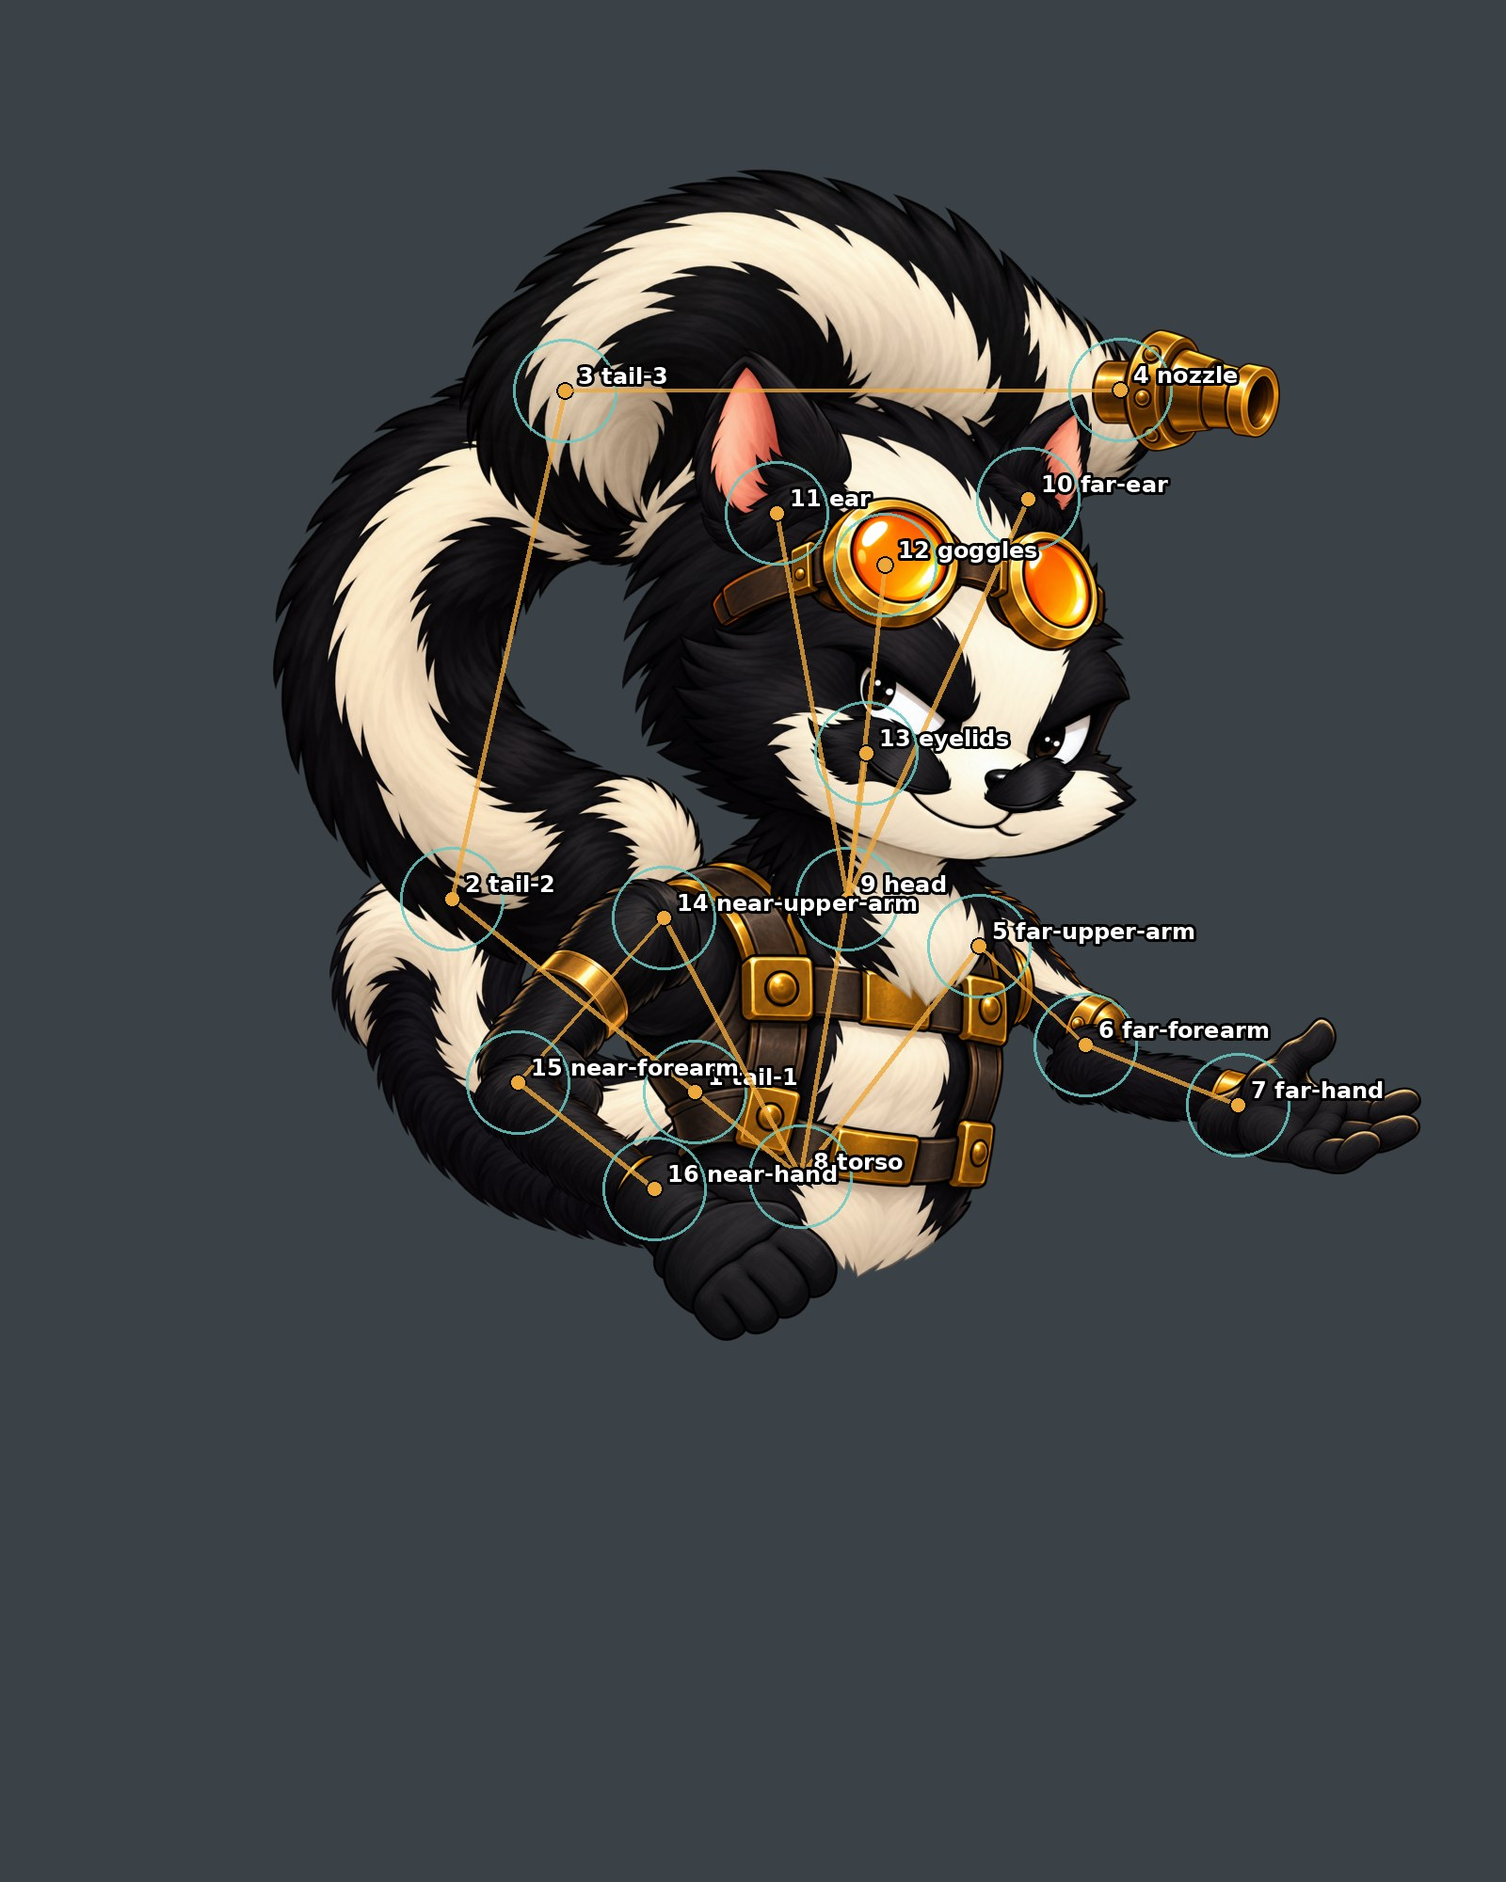
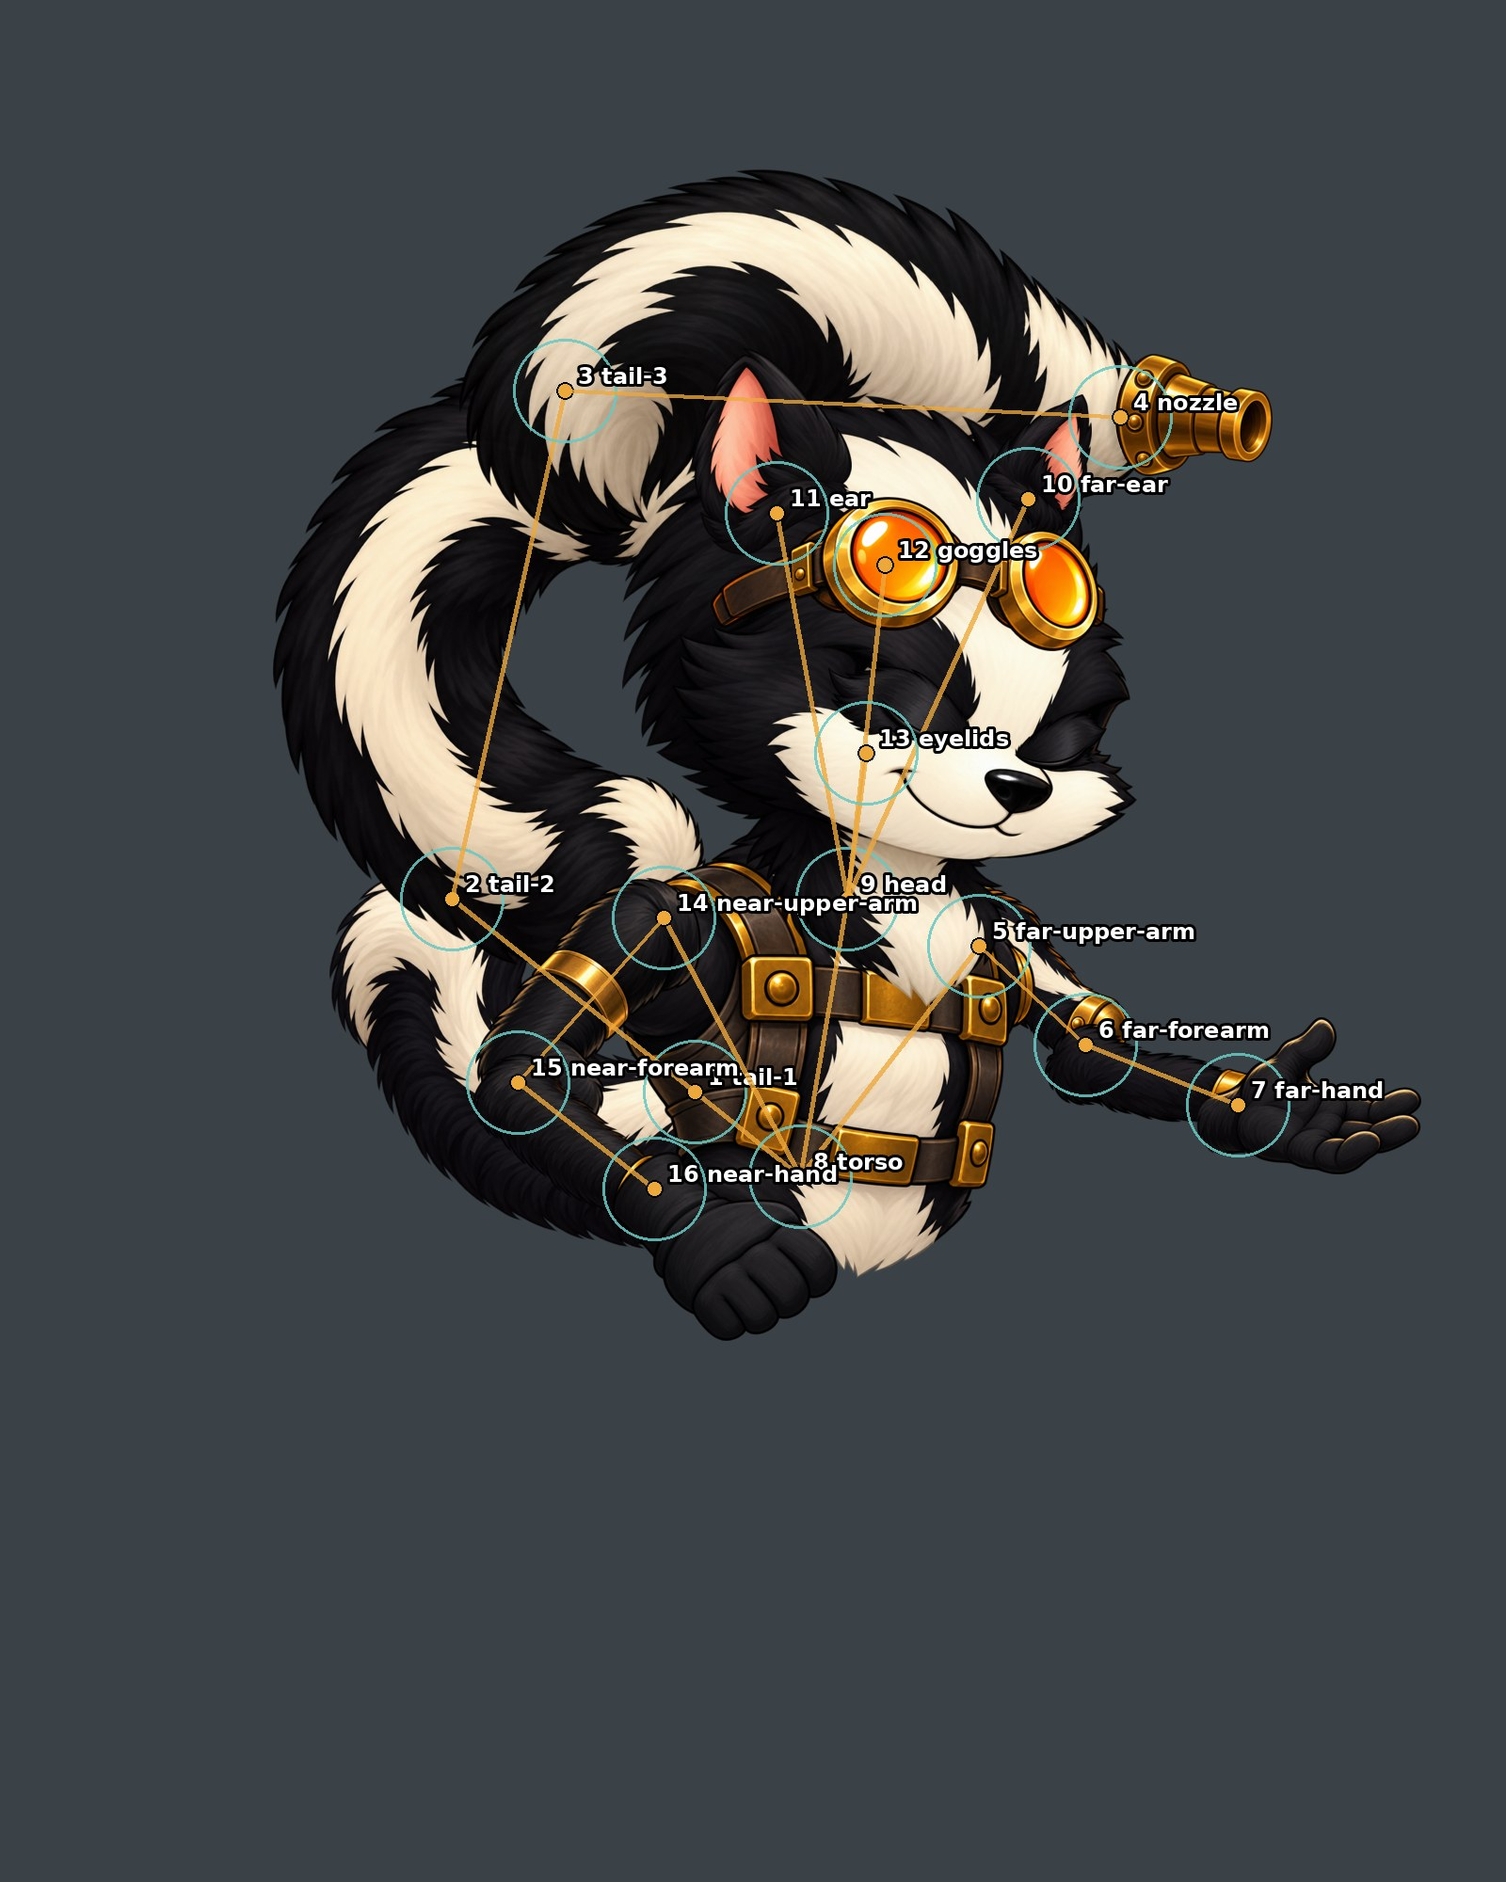
Cyber Skunk: seat the tail nozzle on the tail tip
Dylan: the spout looked like it was floating, pasted onto the tail.
As delivered, the nozzle's axis sat 26 px above the tail's centre line, and
its back stub was painted over the fur.

- fit_nozzle in the fit tool writes art/rig/fitted/nozzle.png (prep prefers
  it, as with the eyelids). It drops the stub behind the collar's rear rim
  (an ellipse arc fitted to the outline), moves the nozzle 8 px left and
  26 px down onto the centre line so the collar closes round the tip like a
  cuff, and shades the fur where it goes in.
- Contract: tail_tip (1190, 443) is the rear rim's centre, and nozzleMouth
  (1331, 453) is the opening's centre. Spray IK re-solves (nozzle 18.8 deg).
- The fit report, guide and extents now read the fitted pieces.
- Shots: nozzle-seat-v41.jpg (poses, before/after) and nozzle-seat-game.jpg.

Claude-Session: https://claude.ai/code/session_01T1NZzBygTfh8wknzdnFfXr

Changed region(s): [[0.6875, 0.155, 0.875, 0.279], [0.5312, 0.341, 0.7188, 0.434], [0.4062, 0.186, 0.625, 0.217]]

diff --git a/slots/tools/art/cyber-skunk-fit-v4.py b/slots/tools/art/cyber-skunk-fit-v4.py
@@ -15,7 +15,7 @@ import json
 from pathlib import Path
 
 import numpy as np
-from PIL import Image, ImageDraw, ImageFont
+from PIL import Image, ImageDraw, ImageFilter, ImageFont
 
 GAME = Path(__file__).resolve().parents[2] / "games" / "cyber-skunk"
 SRC = GAME / "art" / "source" / "mascot-compact-v4"
@@ -26,7 +26,7 @@ J = {
     "base": (850, 1250), "neck": (900, 955), "ear": (825, 545), "far_ear": (1092, 530), "goggles": (940, 600), "eyes": (920, 800),
     "near_shoulder": (705, 975), "near_elbow": (550, 1150), "near_wrist": (695, 1263),
     "far_shoulder": (1040, 1005), "far_elbow": (1153, 1110), "far_wrist": (1315, 1174),
-    "tail_root": (738, 1160), "tail_1": (480, 955), "tail_2": (600, 415), "tail_tip": (1190, 414),
+    "tail_root": (738, 1160), "tail_1": (480, 955), "tail_2": (600, 415), "tail_tip": (1190, 443),
 }
 JOINT_OF = {
     "tail-1": "tail_root", "tail-2": "tail_1", "tail-3": "tail_2", "nozzle": "tail_tip",
@@ -40,6 +40,64 @@ OVERLAP = 55
 # each lid shape is moved onto its eye; as delivered both sat on the cheek.
 # (lid centre in the source, where it goes: the eye opening's centre)
 LID_FIT = [((933, 802), (955, 749)), ((1095, 835), (1128, 789))]
+# Nozzle (Dylan, 2026-11-01: "looks like it's floating there, copy pasted"): as
+# delivered its axis sat 26 px above the tail's centre line and its back stub was
+# painted over the fur. The fitted nozzle drops the stub (everything behind the
+# collar's rear rim), moves onto the centre line so the collar closes round the
+# tail's tip like a cuff, and shades the fur where it goes in. The tail_tip
+# joint is the rim's centre; the jet leaves from the mouth's opening.
+NOZZLE_FIT = (-8, 26)
+NOZZLE_MOUTH = (1339, 427)  # the opening's centre, as delivered
+
+
+def fit_nozzle():
+    """The nozzle seated on the tail tip: stub off, on the centre line, fur shaded."""
+    src = np.array(Image.open(SRC / "registered" / "nozzle.png").convert("RGBA")).astype(np.float32)
+    tail = np.array(Image.open(SRC / "registered" / "tail-3.png").convert("RGBA"))[:, :, 3].astype(np.float32) / 255
+    h, w = src.shape[:2]
+    a = src[:, :, 3]
+    # The collar's rear rim: its left edge on the rows clear of the stub, an ellipse arc through them.
+    rows = [y for y in range(h) if (a[y] >= 128).any()]
+    left = {y: int(np.nonzero(a[y] >= 128)[0][0]) for y in rows}
+    stub = [y for y in rows if left[y] < 1190]
+    mid = (min(stub) + max(stub)) / 2
+    pts = np.array([(y, left[y]) for y in rows if left[y] >= 1190 and abs(y - mid) < 70], float)
+    best = None
+    for cy in np.arange(mid - 10, mid + 10, 0.5):
+        for ry in np.arange(60, 110, 1.0):
+            u = 1 - ((pts[:, 0] - cy) / ry) ** 2
+            if (u <= 0).any():
+                continue
+            m = np.stack([np.ones(len(u)), -np.sqrt(u)], 1)
+            (cx, rx), *_ = np.linalg.lstsq(m, pts[:, 1], rcond=None)
+            err = float(((m @ [cx, rx] - pts[:, 1]) ** 2).mean())
+            if best is None or err < best[0]:
+                best = (err, cy, ry, cx, rx)
+    _, cy, ry, cx, rx = best
+    rim = lambda y: cx - rx * np.sqrt(np.clip(1 - ((y - cy) / ry) ** 2, 0, 1))
+    yy, xx = np.mgrid[0:h, 0:w].astype(np.float32)
+    # Stub off: everything behind the rim on the stub's rows (1 px feather).
+    band = (yy >= min(stub) - 2) & (yy <= max(stub) + 2)
+    src[:, :, 3] = np.where(band, a * np.clip(xx - rim(yy) + 1, 0, 1), a)
+    # Onto the centre line.
+    dx, dy = NOZZLE_FIT
+    out = np.zeros_like(src)
+    out[max(0, dy):h + min(0, dy), max(0, dx):w + min(0, dx)] = src[max(0, -dy):h - max(0, dy), max(0, -dx):w - max(0, dx)]
+    # The fur darkens where it goes into the collar: a soft band behind the rim,
+    # on the fur only, over the middle of the rim (the ends stay clear so a turn
+    # of the nozzle never shows it off the tail).
+    rim_at = rim(yy - dy) + dx
+    near = np.clip(1 - (rim_at - xx) / 12, 0, 1) * (xx < rim_at) * np.sqrt(np.clip(1 - np.abs(yy - (cy + dy)) / 52, 0, 1))
+    solid = np.array(Image.fromarray((tail * 255).astype(np.uint8)).filter(ImageFilter.GaussianBlur(2)), np.float32) / 255 > 0.98
+    shade = np.array(Image.fromarray((near * solid * 255).astype(np.uint8)).filter(ImageFilter.GaussianBlur(2)), np.float32) / 255 * 0.32
+    na = out[:, :, 3] / 255
+    shade *= 1 - na
+    total = shade + na * (1 - shade)
+    rgb = np.where(total[:, :, None] > 0, out[:, :, :3] * (na * (1 - shade) / np.maximum(total, 1e-6))[:, :, None], 0)
+    out = np.dstack([rgb, total * 255])
+    (RIG / "fitted").mkdir(exist_ok=True)
+    Image.fromarray(np.clip(out + 0.5, 0, 255).astype(np.uint8)).save(RIG / "fitted" / "nozzle.png")
+    return (round(rim(cy) + dx + 5), round(cy + dy))
 
 
 def fit_eyelids():
@@ -61,9 +119,14 @@ def fit_eyelids():
 
 
 def main():
+    fit_eyelids()
+    seat = fit_nozzle()
+    assert seat == J["tail_tip"], f"the nozzle's rim centre is {seat}, J says {J['tail_tip']}"
     proposal = json.loads((SRC / "assembly-proposal.json").read_text())
     parts = sorted(proposal["parts"], key=lambda q: q["order"])
-    alpha = {q["name"]: np.array(Image.open(SRC / q["file"]).convert("RGBA"))[:, :, 3] >= 128 for q in parts}
+    # A fitted piece (art/rig/fitted/) stands in for its source everywhere below.
+    source = lambda q: RIG / "fitted" / f"{q['name']}.png" if (RIG / "fitted" / f"{q['name']}.png").exists() else SRC / q["file"]
+    alpha = {q["name"]: np.array(Image.open(source(q)).convert("RGBA"))[:, :, 3] >= 128 for q in parts}
     yy, xx = np.mgrid[-OVERLAP:OVERLAP + 1:2, -OVERLAP:OVERLAP + 1:2]
     disk = (xx * xx + yy * yy) <= OVERLAP * OVERLAP
     cover = lambda name, x, y: float(alpha[name][(y + yy)[disk], (x + xx)[disk]].mean())
@@ -75,7 +138,7 @@ def main():
         "tail": ["tail_root", "tail_1", "tail_2", "tail_tip"],
         # The spray: the nozzle joint lifts to here (every tail segment within +-35 degrees),
         # the nozzle stays level and the jet leaves from its mouth.
-        "sprayTarget": [1250, 260], "nozzleMouth": [1352, 414], "tuck": [0, 0, 0],
+        "sprayTarget": [1250, 260], "nozzleMouth": [NOZZLE_MOUTH[0] + NOZZLE_FIT[0], NOZZLE_MOUTH[1] + NOZZLE_FIT[1]], "tuck": [0, 0, 0],
         # Wins pump the near arm: the far one would rise behind the head.
         "cheer": {"near-upper-arm": 100, "near-forearm": -75, "near-hand": -20, "far-upper-arm": -25, "far-forearm": -15},
         "notes": "Fitted to ChatGPT's 16 painted pieces as delivered: 3 tail segments, a separate far ear, no jaw yet (the grin is painted on the head).",
@@ -84,7 +147,7 @@ def main():
     for q in parts:
         name, j = q["name"], JOINT_OF[q["name"]]
         x, y = J[j]
-        b = q["alphaBounds"]
+        b = q["alphaBounds"] if source(q) == SRC / q["file"] else list(Image.open(source(q)).getchannel("A").point(lambda v: 255 if v >= 8 else 0).getbbox())
         contract["parts"][name] = {"pivot": [x, y], "joint": j, "parent": q["parent"], "order": q["order"], "extent": b, "file": f"{name}.png"}
         own, par = cover(name, x, y), (cover(q["parent"], x, y) if q["parent"] else None)
         rows.append((name, j, (x, y), own, par))
@@ -98,7 +161,7 @@ def main():
     # The guide, on the assembled pieces.
     im = Image.new("RGBA", (1600, 2000), (58, 66, 72, 255))
     for q in parts:
-        im.alpha_composite(Image.open(SRC / q["file"]).convert("RGBA"))
+        im.alpha_composite(Image.open(source(q)).convert("RGBA"))
     im = im.convert("RGB"); d = ImageDraw.Draw(im, "RGBA")
     try:
         font = ImageFont.truetype("DejaVuSans-Bold.ttf", 24)
@@ -113,7 +176,6 @@ def main():
         d.ellipse([x - 9, y - 9, x + 9, y + 9], fill=(237, 168, 60, 255), outline=(0, 0, 0, 255), width=2)
         d.text((x + 14, y - 30), f"{q['order']} {name}", fill=(255, 255, 255), font=font, stroke_width=3, stroke_fill=(0, 0, 0))
     im.save(RIG / "guide-v3.jpg", quality=88)
-    fit_eyelids()
     print("\n".join(lines[6:]))
 
 

diff --git a/slots/collab/HANDOFF.md b/slots/collab/HANDOFF.md
@@ -5,6 +5,44 @@ Newest on top. Format is in `AGENTS.md`.
 ---
 
 
+### 2026-11-01 17:40 · Claude → ChatGPT · The tail nozzle is seated on the tail tip
+
+**Dylan:** "her tail's spout looks like it's just floating there, copy pasted into it. Can we make it look like it's actually part of her tail."
+
+**Why it looked pasted:**
+- The nozzle's axis sat 26 px above the tail's centre line. So the fur bulged out below the collar, and the collar stood proud above it.
+- The nozzle's back stub was drawn on top of the fur, as if stuck on.
+- Its joint was at the top of the tip, so the recoil tipped it off the fur.
+
+**Did:**
+- **Fitted nozzle:** the fit tool (`tools/art/cyber-skunk-fit-v4.py`, `fit_nozzle`) writes `art/rig/fitted/nozzle.png`. Prep uses it instead of your source, the same way it uses the fitted eyelids. The fit:
+  - removes the stub behind the collar's rear rim (the rim's arc is fitted to your outline, so the cut follows it);
+  - moves the nozzle 8 px left and 26 px down, onto the centre line, so the collar closes round the tip like a cuff;
+  - adds a soft shadow on the fur where it goes into the collar.
+- **Contract:** in `pivots-v4.json`:
+  - `tail_tip` moves to (1190, 443), the centre of the rear rim;
+  - `nozzleMouth` moves to (1331, 453), the centre of the opening (it was 12 px high before);
+  - the nozzle's extent is updated.
+  
+  Spray IK re-solves: the nozzle levels at 18.8°.
+- **Checked:**
+  - Rest, idle, spray, bonus and recoil poses (`shots/nozzle-seat-v41.jpg`, before and after).
+  - In the game at 1920×1080 and 390×844, including the jet leaving the mouth (`shots/nozzle-seat-game.jpg`).
+- **Other assets:** the prep run would also have re-encoded your later cabinet, symbols and logo from older sources. I restored yours; only the mascot files changed.
+- **Tests:** 27 game, 25 browser. In the core suite, 126 pass; `dispatch.test.mjs` "concurrent writers" failed once under load, then passed 3 of 3 alone (timing, not this change). The playable link is republished.
+
+**Files:** `tools/art/cyber-skunk-fit-v4.py`, `art/rig/{pivots-v4.json,fit-v4.1.md,guide-v3.jpg,fitted/nozzle.png}`, `runtime/assets/mascot/{nozzle.webp,layers.json,pivots.json,pivots-v4.json}`, `ART_SPEC.md`, `shots/nozzle-seat-*`.
+
+**Next for ChatGPT:**
+- Optional: repaint `nozzle.png` already on its mark: collar centred on y ≈ 441, rear rim at x ≈ 1185, no stub. You could add a few fur tufts lapping over the rim's back edge; painted, they would sell the join better than I can by code. Say so and I retire the fitted copy.
+- When you run prep yourself, keep your cabinet, symbols and logo: the prep tool still re-encodes them from the older sources.
+
+**Questions for Dylan:** CS-08 (Signal Boost) is still waiting on his choice; see the note below.
+
+**Blocked on:** nothing.
+
+---
+
 ### 2026-11-01 16:05 · Claude → ChatGPT · Mystery Buy is 90% Overpressure / 10% Blackout at 500x; game start fixed
 
 **Dylan chose:** Blackout 1 in 10 at a 500x price, so Overpressure keeps today's strength.

diff --git a/slots/collab/BOARD.md b/slots/collab/BOARD.md
@@ -11,7 +11,7 @@ Coordination: `games/cyber-skunk/STYLE.md`; deadline target 2026-10-31 08:25 UTC
 | CS-02 | Exact art/pivot contract and articulated rig guide | Claude | done | Rig v4 (compact, waist up): `art/rig/pivots-v4.json`, `guide-v2.jpg`, 17 pieces; ChatGPT painting the pieces |
 | CS-03 | Engine, paytable/calibration, all-mode distribution and max odds | Claude | done | cs-2 (Dylan's odds, all met): base max 1 in 1,000,000; bought Vent Break 1 in 200,000 (now with a Reservoir to 5) and Overpressure 1 in 50,000; Blackout 1 in 200 and ≥1,000×; all modes exactly 96% |
 | CS-04 | Production symbol/cabinet/background/logo and registered mascot layers | ChatGPT | done | Required art and the optional controller texture/icon are integrated and browser-checked through `a0f501f`; the optional splash pair remains absent by design. Preserve the fitted v4.1 eyelids and do not drop old-v4 mouth candidates into production. |
-| CS-05 | Rig, animations, original audio and responsive runtime integration | Claude | done | Rig v4.1, fitted blink, all clips/audio, full centred symbol-card flip, pipe mount, bonus halls, intro art, controller texture and icon are live and browser-checked through `a0f501f`. |
+| CS-05 | Rig, animations, original audio and responsive runtime integration | Claude | done | Rig v4.1, fitted blink, tail nozzle seated on the tail tip (2026-11-01, `art/rig/fitted/nozzle.png`), all clips/audio, full centred symbol-card flip, pipe mount, bonus halls, intro art, controller texture and icon are live and browser-checked through `a0f501f`. |
 | CS-06 | UI skin, buy screens, controller and phone visual QA | ChatGPT + Claude | doing | The complete `a0f501f` build passed responsive QA. Claude measured one pre-existing exception: the enabled portrait BET picker was 34px tall. ChatGPT restored the final portrait readout/BET row to STYLE's 44px minimum and bumped the controller/CSS version; Claude must measure 360/390/430, check safe areas/no scroll and republish. |
 | CS-07 | Final replay/math/browser tests, playable link, notify Dylan | ChatGPT + Claude | doing | Preview link (private to Dylan, updates in place): https://claude.ai/artifact/Qcrirm5ru2hScWfRqADBQc. The `a0f501f` artifact passed 11 browser, 23 game and 127 core tests; all 141,260 catalogs replayed, every paid mode is 96%, and served files matched. The source-only 44px BET target correction now needs Claude's browser run and republish before the latest source revision is called live. |
 

diff --git a/slots/games/cyber-skunk/ART_SPEC.md b/slots/games/cyber-skunk/ART_SPEC.md
@@ -24,6 +24,10 @@
 >   - the near arm: `near-upper-arm`, `near-forearm`, `near-hand`.
 > - **Joints:** each sits where its piece overlaps its parent. `tools/art/cyber-skunk-fit-v4.py` writes the contract `art/rig/pivots-v4.json`, the overlap report `art/rig/fit-v4.1.md` and the guide `art/rig/guide-v3.jpg`.
 > - **Game:** `cyber-skunk-prep.py --mascot art/source/mascot-compact-v4/registered` puts them in the game. Wins pump the near arm, because the far arm would rise behind the head.
+> - **Fitted pieces:** the fit tool writes corrected copies of two pieces to `art/rig/fitted/`, and prep uses those instead of the sources:
+>   - **`eyelids`:** each lid moved onto its eye.
+>   - **`nozzle`:** the back stub is removed and the nozzle moves 8 px left and 26 px down. Its collar now sits on the tail's centre line (y ≈ 441) and closes round the tip like a cuff, with the fur shaded where it goes in. The `tail_tip` joint (1190, 443) is the centre of the collar's rear rim, and the jet leaves from the mouth (1331, 453).
+>   - **If you repaint either piece,** draw it already on its mark and say so; Claude then retires its fitted copy.
 > - **Improvements go in the same folder under the same names**, and the next prep run picks them up:
 >   - **A separate `jaw`** (and the head without its lower jaw) would let the mouth open. Say so and the contract gains it.
 >   - **More paint** past the elbows and wrists.

diff --git a/slots/games/cyber-skunk/art/rig/fit-v4.1.md b/slots/games/cyber-skunk/art/rig/fit-v4.1.md
@@ -7,7 +7,7 @@ ChatGPT's 16 pieces as delivered, with each joint where the piece overlaps its p
 | tail-1 | tail_root | 738, 1160 | 84% | 90% |
 | tail-2 | tail_1 | 480, 955 | 83% | 81% |
 | tail-3 | tail_2 | 600, 415 | 100% | 89% |
-| nozzle | tail_tip | 1190, 414 | 64% | 78% |
+| nozzle | tail_tip | 1190, 443 | 50% | 86% |
 | far-upper-arm | far_shoulder | 1040, 1005 | 83% | 79% |
 | far-forearm | far_elbow | 1153, 1110 | 57% | 59% |
 | far-hand | far_wrist | 1315, 1174 | 73% | 51% |
@@ -16,7 +16,7 @@ ChatGPT's 16 pieces as delivered, with each joint where the piece overlaps its p
 | far-ear | far_ear | 1092, 530 | 66% | 81% |
 | ear | ear | 825, 545 | 75% | 100% |
 | goggles | goggles | 940, 600 | 100% | 100% |
-| eyelids | eyes | 920, 800 | 70% | 100% |
+| eyelids | eyes | 920, 800 | 19% | 100% |
 | near-upper-arm | near_shoulder | 705, 975 | 76% | 86% |
 | near-forearm | near_elbow | 550, 1150 | 66% | 80% |
 | near-hand | near_wrist | 695, 1263 | 71% | 64% |
